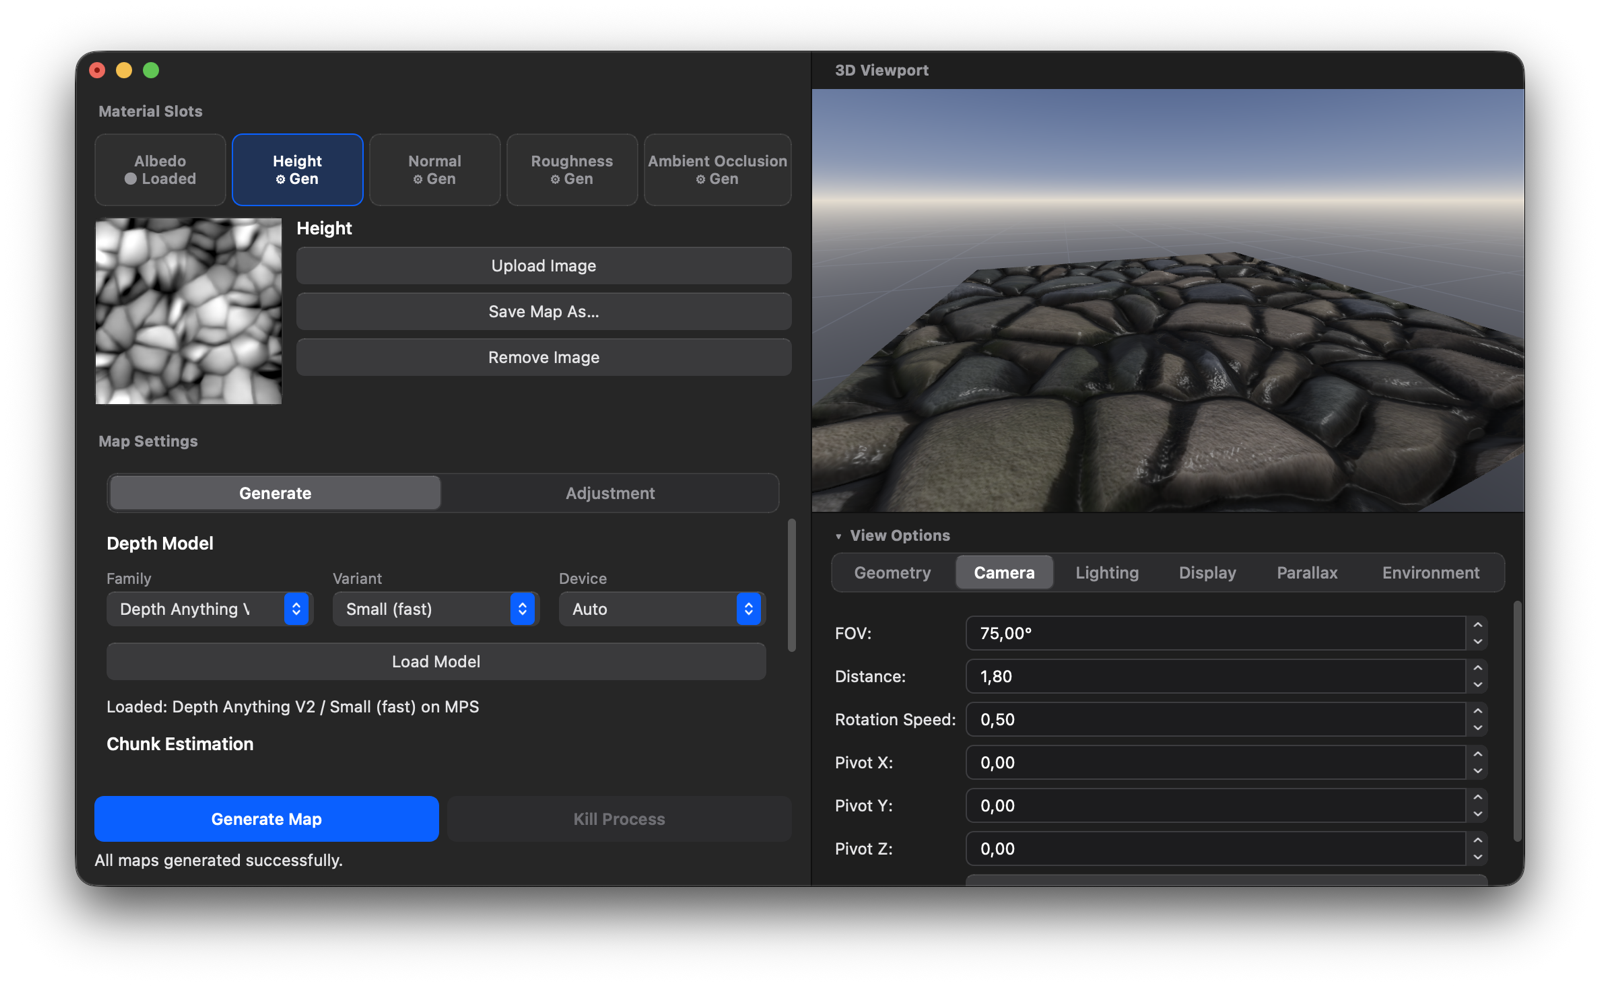
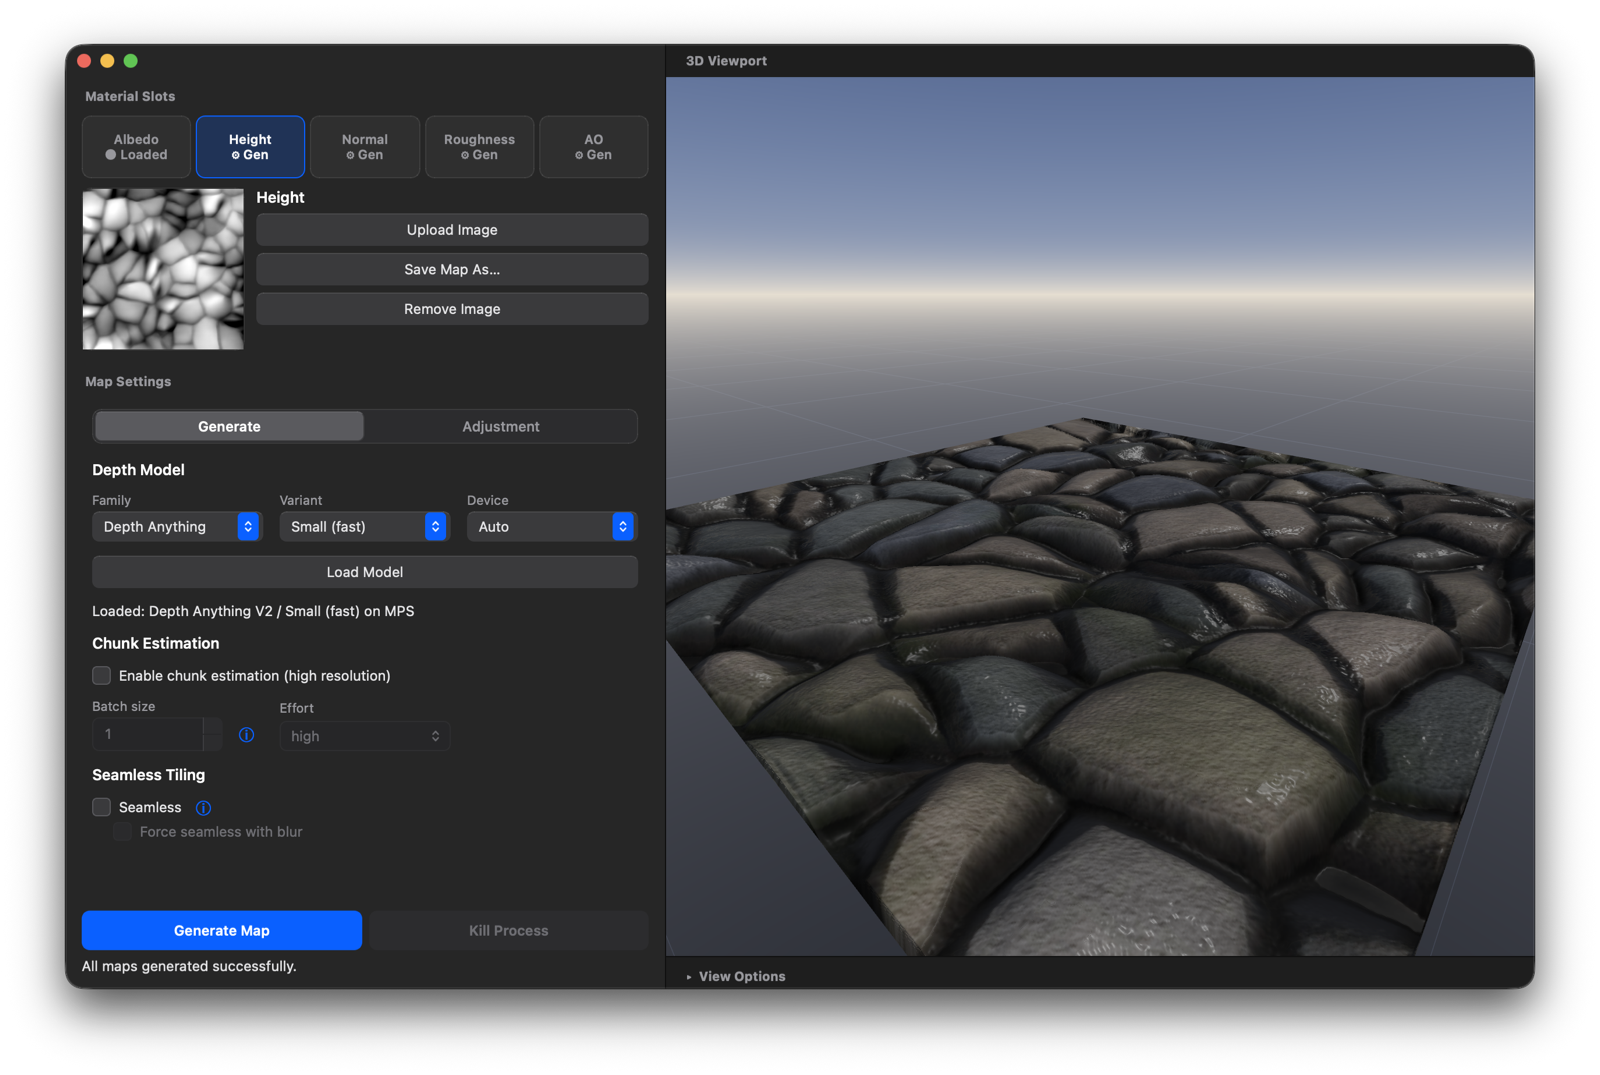
Shorten the Ambient Occlusion slot label to AO and refresh the README screenshot

diff --git a/core/maps.py b/core/maps.py
@@ -24,7 +24,7 @@ MAP_TYPE_LABELS: dict[MapType, str] = {
     MapType.HEIGHT: "Height",
     MapType.NORMAL: "Normal",
     MapType.ROUGHNESS: "Roughness",
-    MapType.AO: "Ambient Occlusion",
+    MapType.AO: "AO",
 }
 
 GENERATABLE_MAP_TYPES: set[MapType] = {
